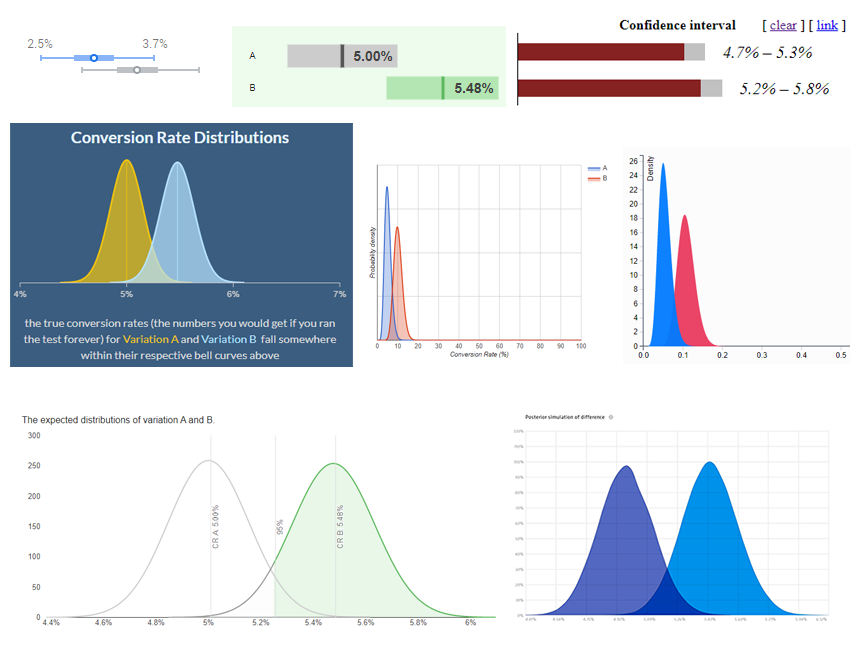
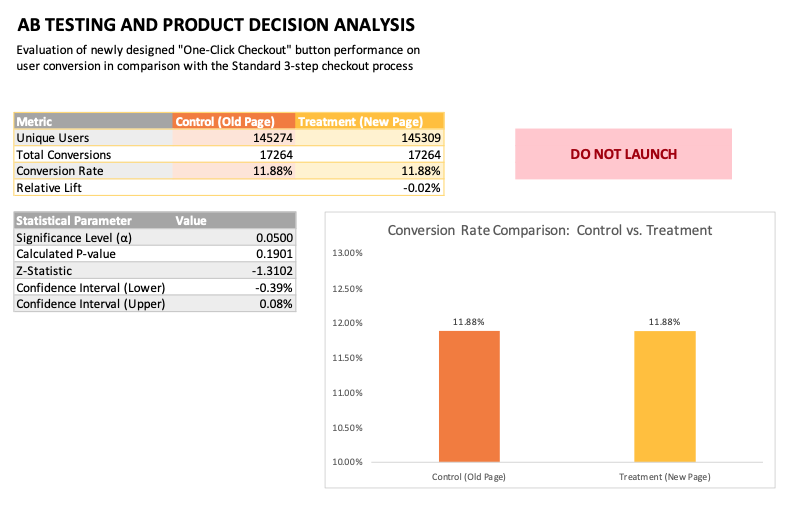
updated files

diff --git a/index.html b/index.html
@@ -121,7 +121,7 @@
                     <img class = "project-thumbnail" src = "assets/images/thumbnail-02.png" alt = "Project 2 Thumbnail">
                     <div class = "tags-container">
                         <p class = "tag">Python</p>
-                        <p class = "tag">SciPy</p>
+                        <p class = "tag">Excel</p>
                         <p class = "tag">Hypothesis Testing</p>
                         <p class = "tag">Product</p>
                     </div>